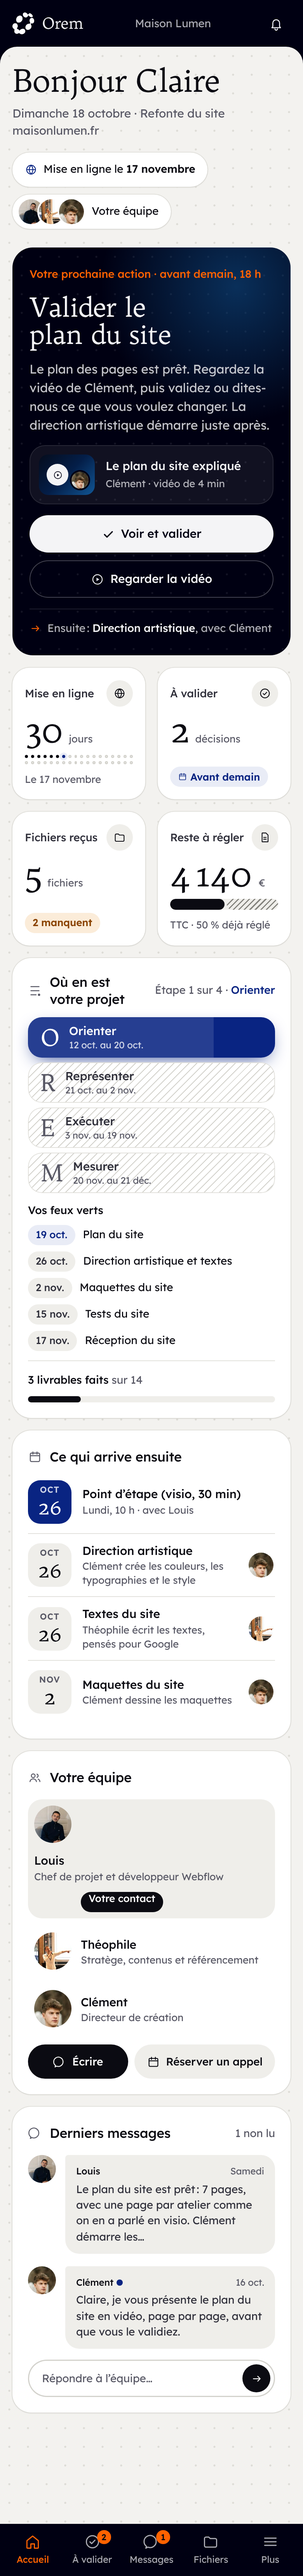
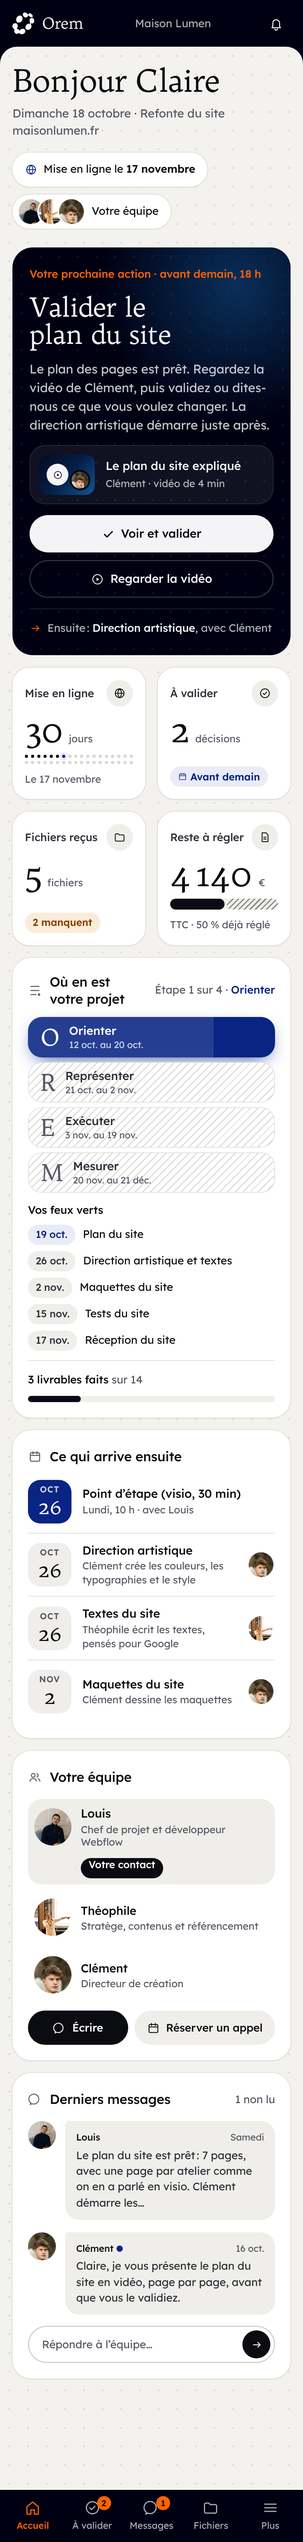
Maquettes de l'espace client v2 : 8 écrans
Claude-Session: https://claude.ai/code/session_01P3qgYGkfgGRmysGgL5NfQM

diff --git a/espace-client-orem/docs/maquettes/client-v2/cx-render.js b/espace-client-orem/docs/maquettes/client-v2/cx-render.js
@@ -137,7 +137,7 @@ window.cxMock = function (D, o = {}) {
     const ppl = ['u_louis', 'u_theo', 'u_clement', 'client'].map((id) => { const mine = items.filter((it) => who(it).some(([w]) => w === id)); return [id, mine]; });
     const whos = `<section class="cx-card c-9-13"><div class="cx-card-h"><h2>${ic('team')}Qui fait quoi</h2><span class="cx-aside">Sur tout le projet</span></div><div class="cx-whos">
       ${ppl.map(([id, mine]) => `<div class="cx-wr">${av(id)}<b>${id === 'client' ? R('Vous', 'Toi') : esc(first(id))}</b><span class="cx-n">${mine.length}</span><div class="cx-pdots">${mine.map((it) => `<i class="${iS(it) === 'done' ? 'd' : iS(it) === 'review' ? 'r' : ''}"></i>`).join('')}</div></div>`).join('')}</div>
-      <div style="border-top:1px solid var(--line);padding-top:14px;margin-top:4px"><b style="font-size:14px;font-weight:500">${R('Vos', 'Tes')} 3 prochaines actions</b><ul class="cx-mini" style="margin-top:6px">${items.filter((it) => iS(it) !== 'done' && who(it).some(([w]) => w === 'client')).slice(0, 3).map((it) => { const s = iS(it); return `<li><div class="cx-m">${esc(reg(who(it).find(([w]) => w === 'client')[1]))}<small>${esc(it.t)}</small></div><span class="cx-chip ${s === 'review' ? 'hl' : ''}">${s === 'review' ? 'Avant demain' : dms(it.due)}</span></li>`; }).join('')}</ul></div>
+      <div style="border-top:1px solid var(--line);padding-top:14px;margin-top:4px"><b style="font-size:14px;font-weight:500">${R('Vos', 'Tes')} 3 prochaines actions</b><ul class="cx-mini" style="margin-top:6px">${items.filter((it) => iS(it) !== 'done' && who(it).some(([w]) => w === 'client')).slice(0, 3).map((it) => { const s = iS(it); return `<li><div class="cx-m">${esc(it.t.replace(/ \(.*\)$/, ''))}<small>${esc(reg(who(it).find(([w]) => w === 'client')[1]))}</small></div><span class="cx-chip ${s === 'review' ? 'hl' : ''}">${s === 'review' ? 'Avant demain' : dms(it.due)}</span></li>`; }).join('')}</ul></div>
       <div style="display:flex;flex-wrap:wrap;gap:6px 14px;font-size:12px;color:var(--muted);margin-top:auto"><span class="cx-lg"><i style="border-radius:50%"></i>Fait</span><span class="cx-lg"><i class="hl" style="border-radius:50%"></i>${R('À vous', 'À toi')}</span><span class="cx-lg"><i class="w" style="border-radius:50%"></i>À venir</span></div></section>`;
     const later = p.phases.slice(p.phase).map((x, i) => `<section class="cx-card ${['c-1-5', 'c-5-9', 'c-9-13'][i]} cx-next-ph"><div class="cx-ph-h"><span class="cx-ltr">${x.letter}</span><div><b>${esc(x.t)}</b><span>${dms(x.from)} au ${dms(x.to)}</span></div></div><p style="font-size:13px;color:var(--muted)">${esc(reg(x.txt))}</p>
       <ul class="cx-mini">${x.items.map((it) => `<li><div class="cx-m">${esc(it.t)}<small>${dms(it.due)}${it.val ? ` · ${R('votre', 'ton')} feu vert` : ''}</small></div><span class="cx-avs">${who(it).map(([w]) => av(w)).join('')}</span></li>`).join('')}</ul></section>`).join('');
@@ -172,7 +172,7 @@ window.cxMock = function (D, o = {}) {
     const ext = (n) => (n.match(/\.([a-z0-9]+)$/i) || [, ''])[1].toUpperCase();
     const drop = `<section class="cx-drop c-1-8"><div class="cx-dz"><span class="cx-up">${ic('up')}</span><div><h2>Glissez ${R('vos', 'tes')} fichiers ici</h2><p>Photos, vidéos, textes, dossiers entiers. Aucune limite de taille, l’envoi reprend tout seul si la connexion coupe.</p></div></div>
       <div style="display:flex;justify-content:space-between;align-items:center"><b style="font-size:14px;font-weight:500">Ce qu’il nous manque</b><span class="cx-chip warn">${p.missing.length} éléments</span></div>
-      <div class="cx-miss">${p.missing.map((m) => `<div><span class="cx-fico">${ic('folder')}</span><div class="cx-m"><b>${esc(m.t)}</b><small>${esc(m.sub)}</small></div><button class="cx-btn sm cx-b-ink" style="padding:0 14px">Déposer</button></div>`).join('')}</div></section>`;
+      <div class="cx-miss">${p.missing.map((m) => `<div><span class="cx-fico">${ic('folder')}</span><div class="cx-m"><b>${esc(m.t)}</b><small>${esc(m.sub)}</small></div><button class="cx-btn sm cx-b-ink" style="padding:0 14px">Déposer</button></div>`).join('')}</div><div style="display:flex;align-items:center;gap:12px;margin-top:auto;flex-wrap:wrap"><button class="cx-btn sm cx-b-soft">${ic('folder')}Déposer un dossier entier</button><span style="font-size:13px;color:var(--muted)">Les sous-dossiers sont conservés.</span></div></section>`;
     const pct = Math.round((paid / total) * 100), C = 2 * Math.PI * 56;
     const pay = `<section class="cx-card c-8-13 cx-pay"><div class="cx-card-h"><h2>${ic('doc')}Paiements</h2><span class="cx-aside">Devis ${esc(p.billing.quote)} signé</span></div>
       <div style="display:flex;align-items:center;gap:20px"><div class="cx-ring"><svg viewBox="0 0 132 132"><circle cx="66" cy="66" r="56" fill="none" stroke="var(--surface-2)" stroke-width="16"/><circle cx="66" cy="66" r="56" fill="none" stroke="var(--fg)" stroke-width="16" stroke-linecap="round" stroke-dasharray="${(C * pct) / 100} ${C}"/></svg><div><span><b>${pct} %</b><small>réglé</small></span></div></div>

diff --git a/espace-client-orem/docs/maquettes/client-v2/cx.css b/espace-client-orem/docs/maquettes/client-v2/cx.css
@@ -428,6 +428,7 @@
   .cx-prev .cx-link{font-size:0;gap:0}
   .cx-prev .cx-link svg{width:18px;height:18px}
   .cx-person.lead{flex-wrap:wrap}
+  .cx-person.lead > div{flex:1 1 calc(100% - 64px)}
   .cx-person.lead .cx-chip{margin-left:60px}
 }
 .cx-mlist{display:none;flex-direction:column;gap:8px}
@@ -436,3 +437,4 @@
 .cx-gb.on .cx-gm{background:#fff;box-shadow:0 0 0 2px #fff}
 .cx-gb.wait .cx-gm{background:var(--surface);box-shadow:0 0 0 2px var(--field)}
 .cx-gb .cx-gtx{position:relative;z-index:1}
+.cx-vol i.k3 b{background:var(--surface);padding:2px 8px;border-radius:8px}
